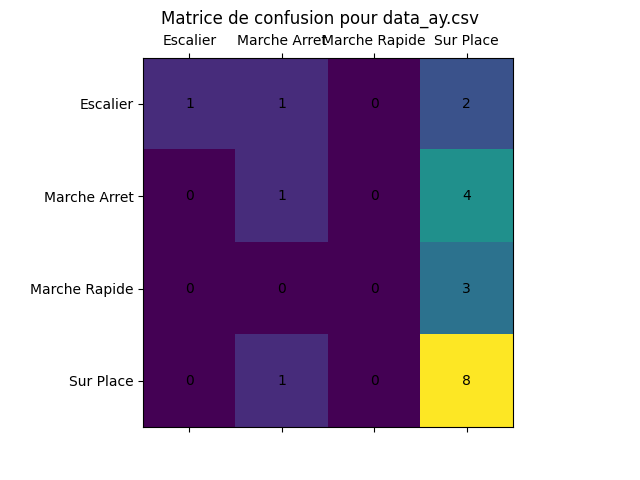
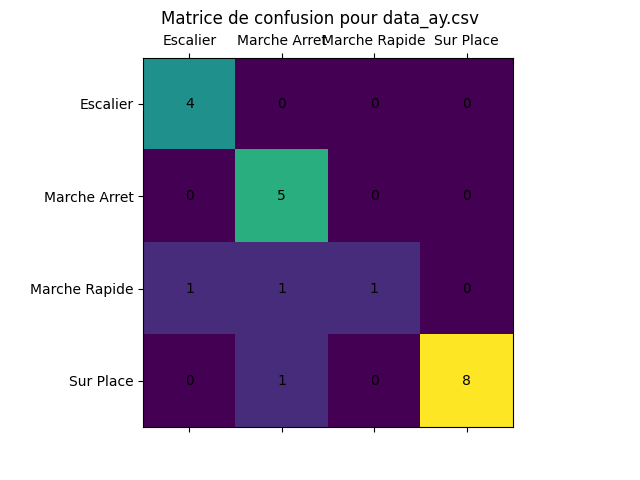
Modifications

Changed region(s): [[0.2188, 0.125, 0.8125, 0.7188]]

diff --git a/Classification_mesure.py b/Classification_mesure.py
@@ -26,7 +26,7 @@ for fichier in os.listdir(dossier_data):
     df = pd.DataFrame(data[donnees])
 
     # Classification par k plus proches voisins :
-    model = KNeighborsClassifier(n_neighbors=5)
+    model = KNeighborsClassifier(n_neighbors=2)
     y = df['type_chute']
     X = df.drop('type_chute', axis=1)
     model.fit(X, y)
